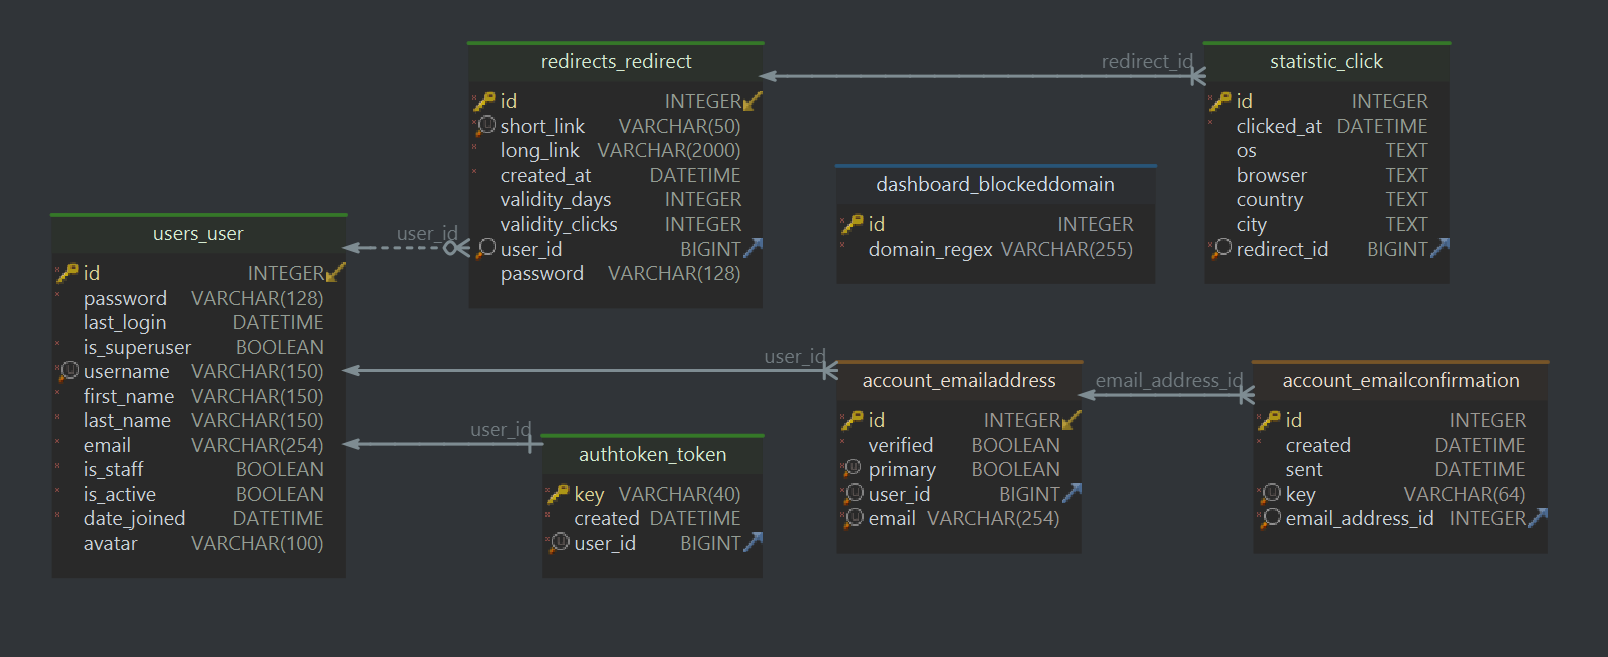
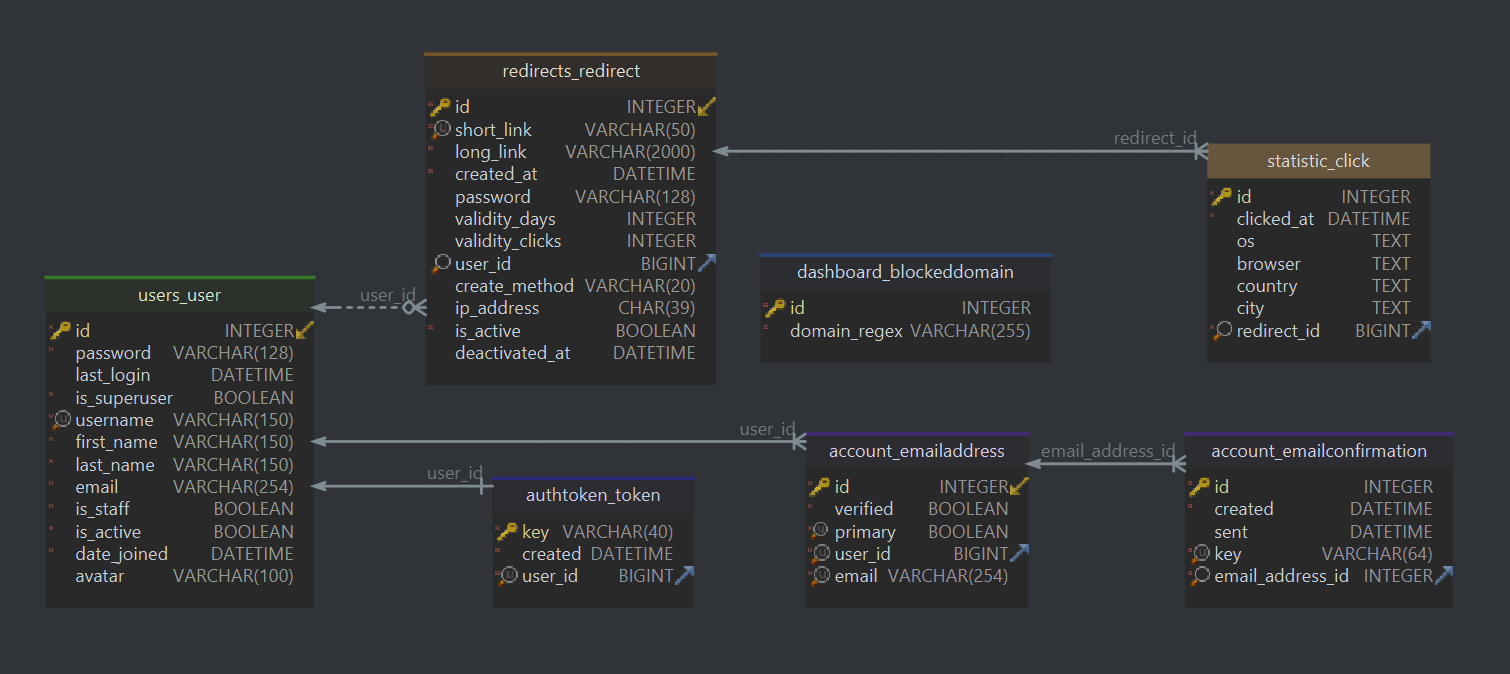
feat: update scheme in README.md

Changed region(s): [[0.0311, 0.0609, 0.9649, 0.8828], [0.0311, 0.3044, 0.2179, 0.3653], [0.498, 0.4262, 0.5291, 0.4871]]

diff --git a/README.md b/README.md
@@ -96,7 +96,7 @@
   ключ-значение. Требуется для celery
 - [Celery](Dockerfile) - контейнер, созданный на базе `Django`, но с 
   изменённой командой запуска, является очередью задач для массового сокращения
-  ссылок
+  ссылок и динамического отслеживания за сроком годности перенаправлений
 
 ## Развёртывание
 Данная документация предлагает два основных способа запуска (развёртывания)
